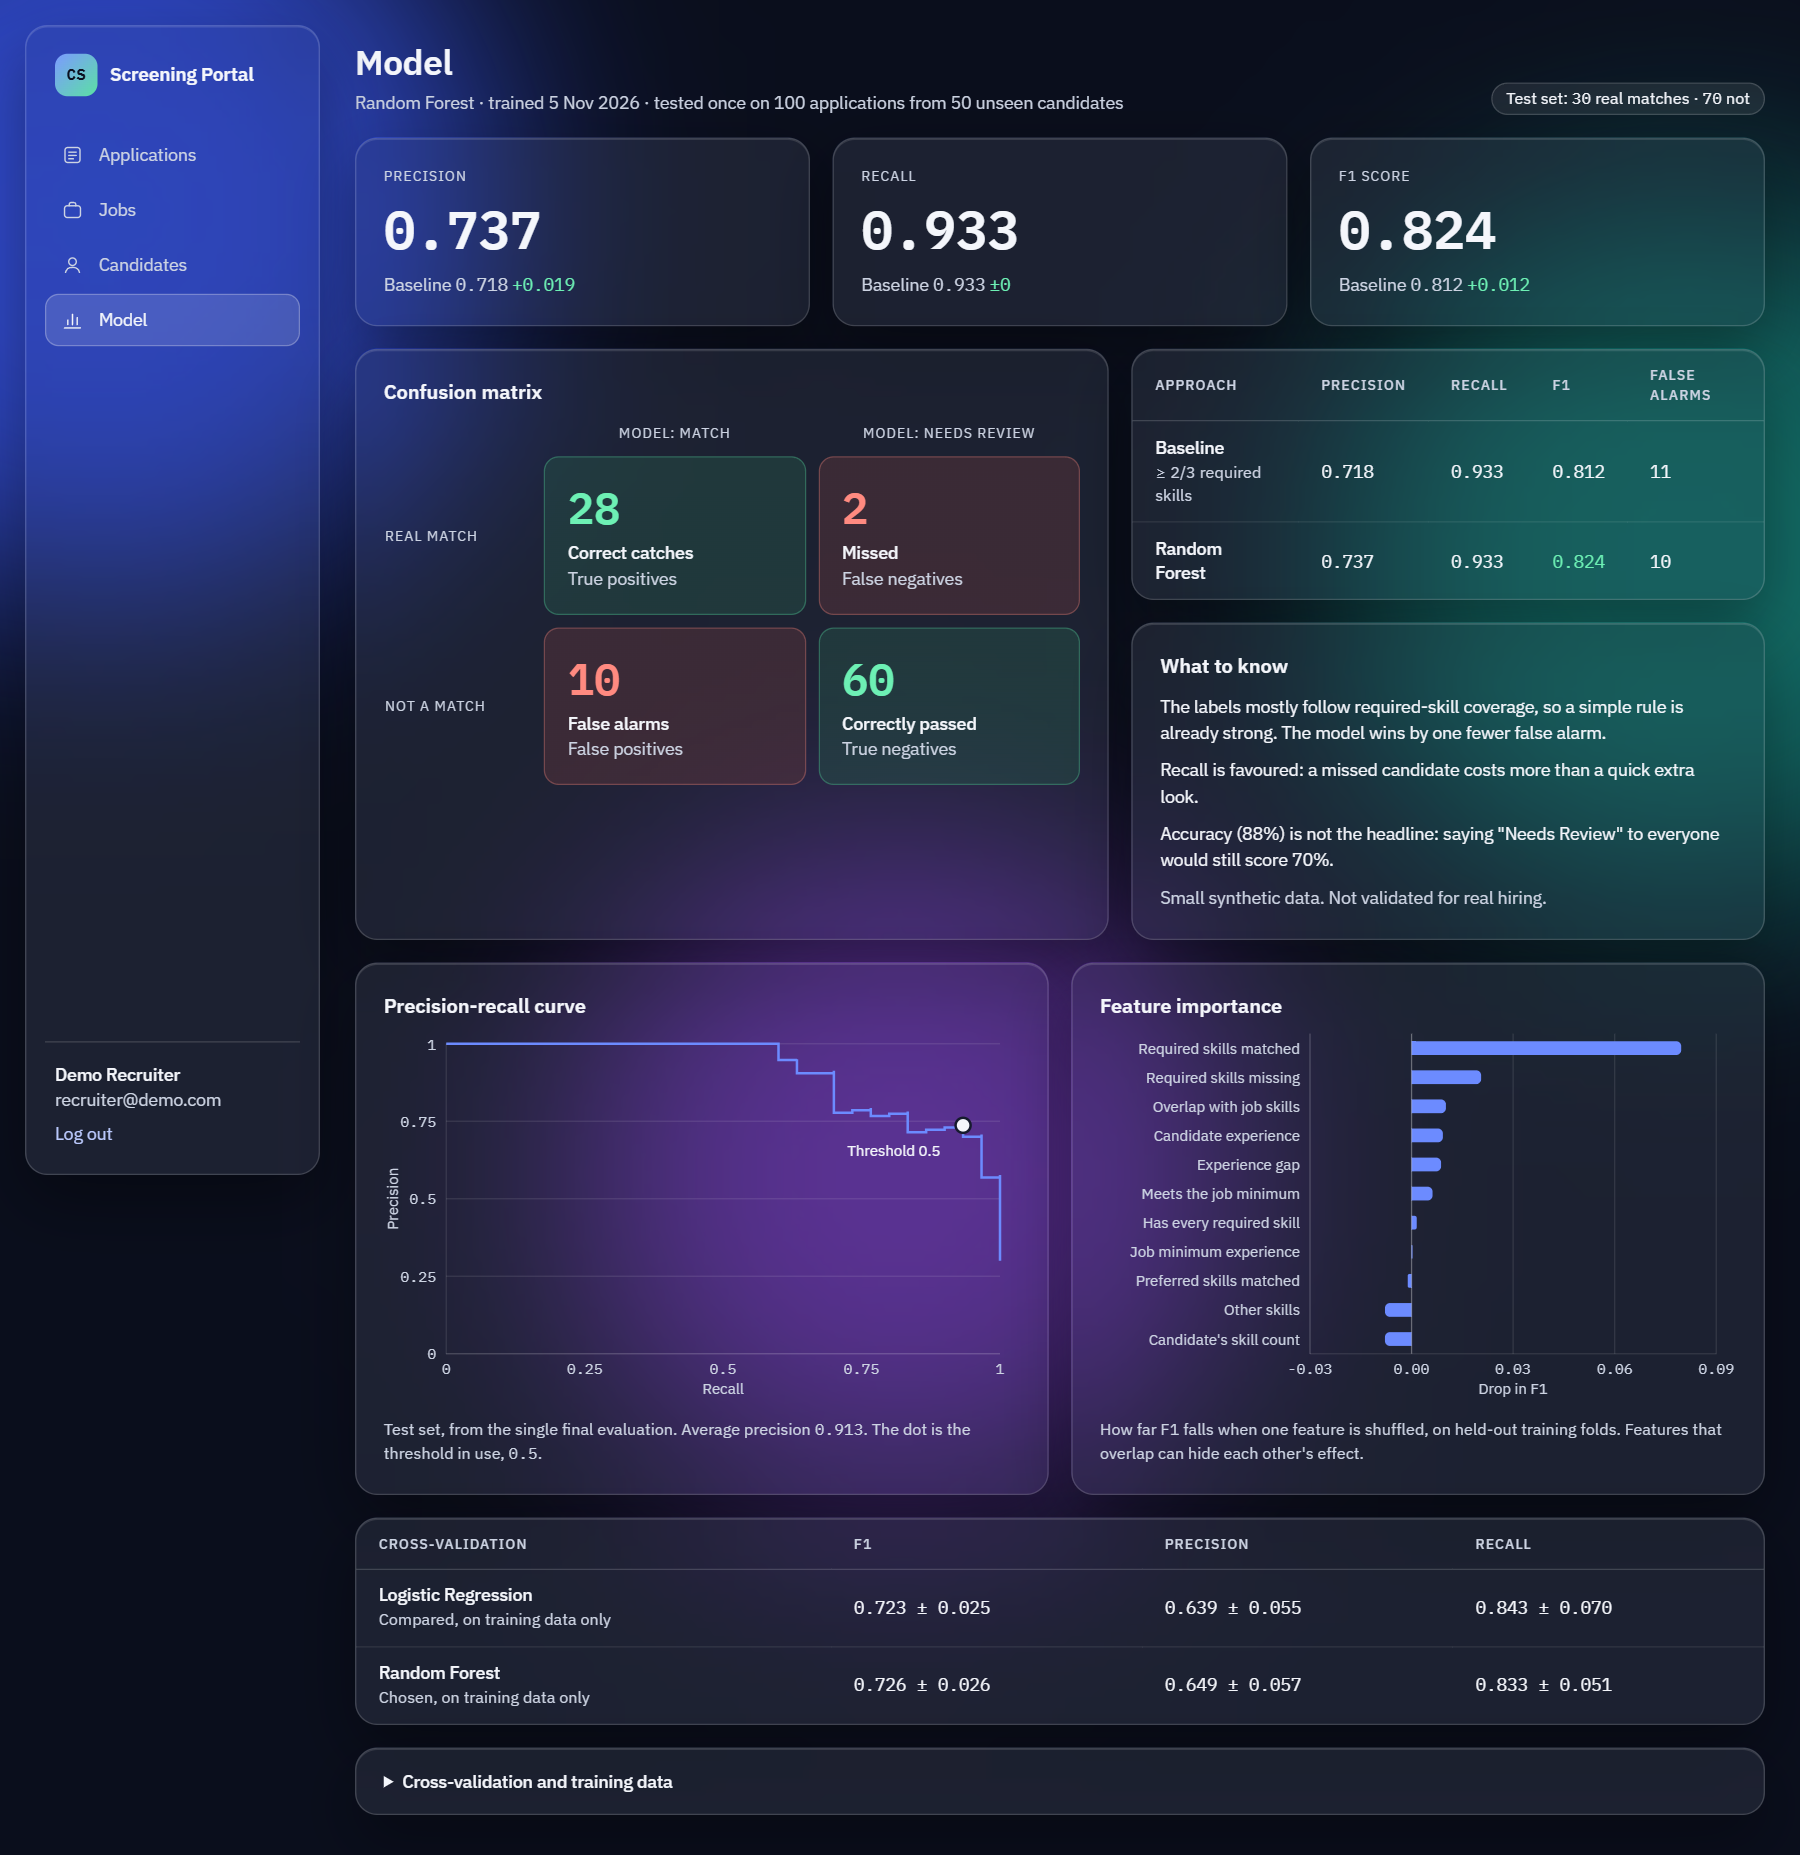
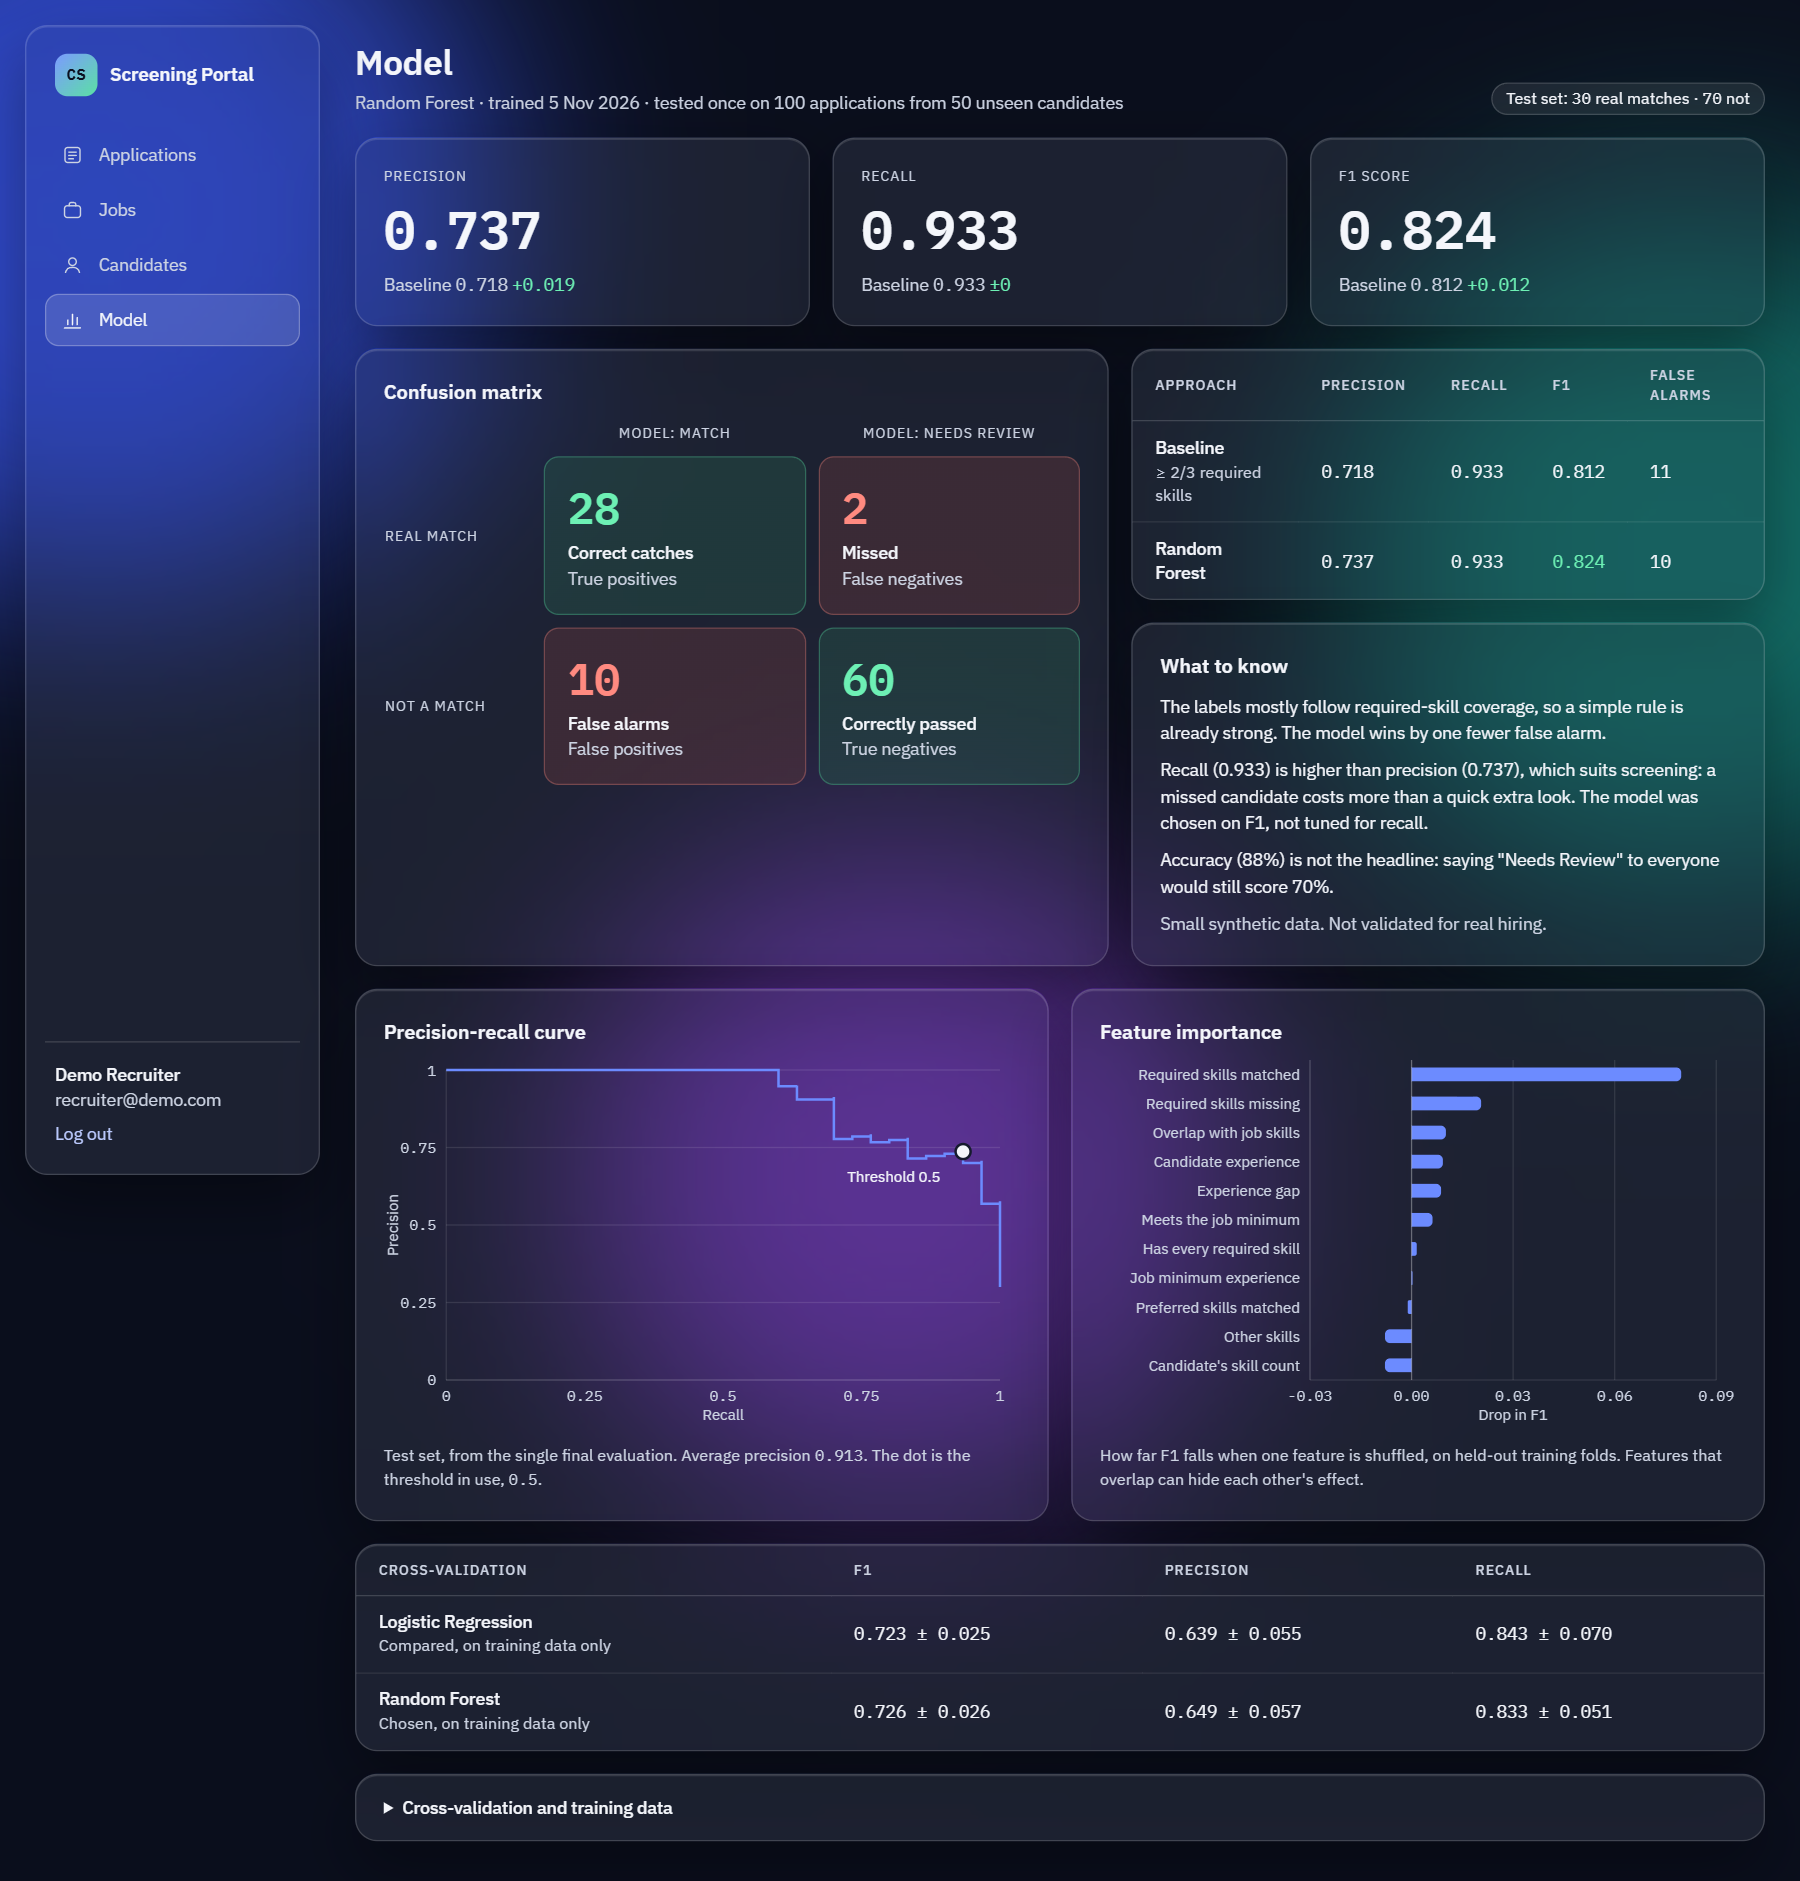
Correct the recall note on the Model page
The model and threshold were chosen on F1, so nothing favoured recall on purpose. The note now
states how recall and precision compare, built from the metrics.

diff --git a/frontend/src/pages/ModelMetricsPage.tsx b/frontend/src/pages/ModelMetricsPage.tsx
@@ -40,6 +40,14 @@ function comparisonSentence(baseline: ClassificationResult, model: Classificatio
   return "The model doesn't beat the rule on this test set.";
 }
 
+/** States how recall and precision compare, and doesn't claim the model was tuned for either. */
+function recallSentence({ precision, recall }: ClassificationResult): string {
+  if (recall >= precision) {
+    return `Recall (${score(recall)}) is higher than precision (${score(precision)}), which suits screening: a missed candidate costs more than a quick extra look. The model was chosen on F1, not tuned for recall.`;
+  }
+  return `Precision (${score(precision)}) is higher than recall (${score(recall)}), so this model misses more matches than a screening tool ideally should. It was chosen on F1.`;
+}
+
 export function ModelMetricsPage() {
   const metrics = useModelMetrics();
   return <QueryBoundary query={metrics}>{(data) => <MetricsContent metrics={data} />}</QueryBoundary>;
@@ -104,7 +112,7 @@ function MetricsContent({ metrics }: { metrics: ModelMetrics }) {
             <h2 className="card-title">What to know</h2>
             <div className="what-to-know">
               <p>The labels mostly follow required-skill coverage, so a simple rule is already strong. {comparisonSentence(baseline, model)}</p>
-              <p>Recall is favoured: a missed candidate costs more than a quick extra look.</p>
+              <p>{recallSentence(model)}</p>
               <p>
                 Accuracy ({formatPercent((tp + tn) / total)}) is not the headline: saying "Needs Review" to everyone would still score{" "}
                 {formatPercent(notMatches / total)}.

diff --git a/frontend/src/pages/ModelMetricsPage.test.tsx b/frontend/src/pages/ModelMetricsPage.test.tsx
@@ -111,13 +111,15 @@ describe("ModelMetricsPage", () => {
   });
 
   it("builds the plain-language notes from the metrics", async () => {
-    const model = result({ f1: 0.8, confusion_matrix: { tp: 28, fn: 2, fp: 10, tn: 60 } });
+    const model = result({ precision: 0.737, recall: 0.933, f1: 0.8, confusion_matrix: { tp: 28, fn: 2, fp: 10, tn: 60 } });
     const baseline = result({ f1: 0.79, confusion_matrix: { tp: 28, fn: 2, fp: 11, tn: 59 } });
     mockFetch(() => jsonResponse(makeMetrics({ baseline, model })));
     renderWithProviders(<ModelMetricsPage />);
 
     expect(await screen.findByText(/The model wins by one fewer false alarm\./)).toBeInTheDocument();
     expect(screen.getByText(/Accuracy \(88%\) is not the headline/)).toHaveTextContent("would still score 70%.");
+    expect(screen.getByText(/Recall \(0\.933\) is higher than precision \(0\.737\)/)).toHaveTextContent("chosen on F1, not tuned for recall");
+    expect(screen.queryByText(/Recall is favoured/)).not.toBeInTheDocument();
     expect(screen.getByText("Small synthetic data. Not validated for real hiring.")).toBeInTheDocument();
   });
 
@@ -128,6 +130,7 @@ describe("ModelMetricsPage", () => {
     renderWithProviders(<ModelMetricsPage />);
 
     expect(await screen.findByText(/The model doesn't beat the rule on this test set\./)).toBeInTheDocument();
+    expect(screen.queryByText(/higher than precision \(0\.500\)/)).toBeInTheDocument();
     expect(screen.queryByText(/The model wins/)).not.toBeInTheDocument();
   });
 
